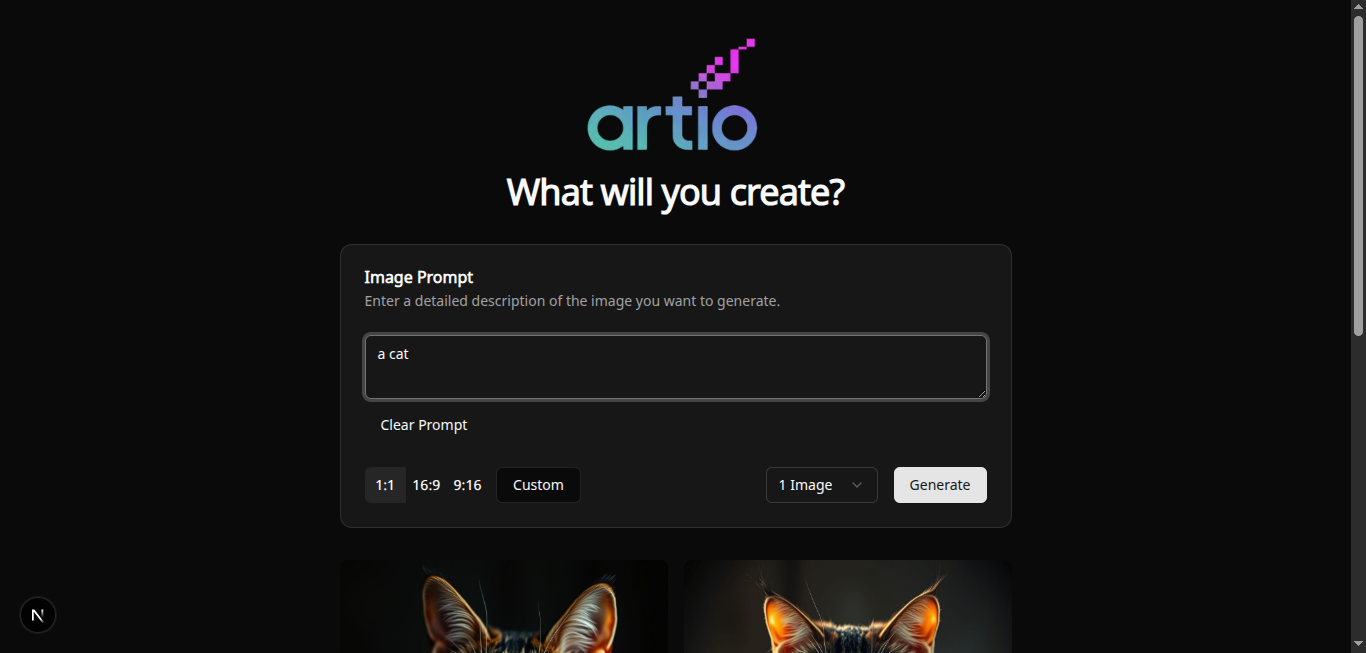
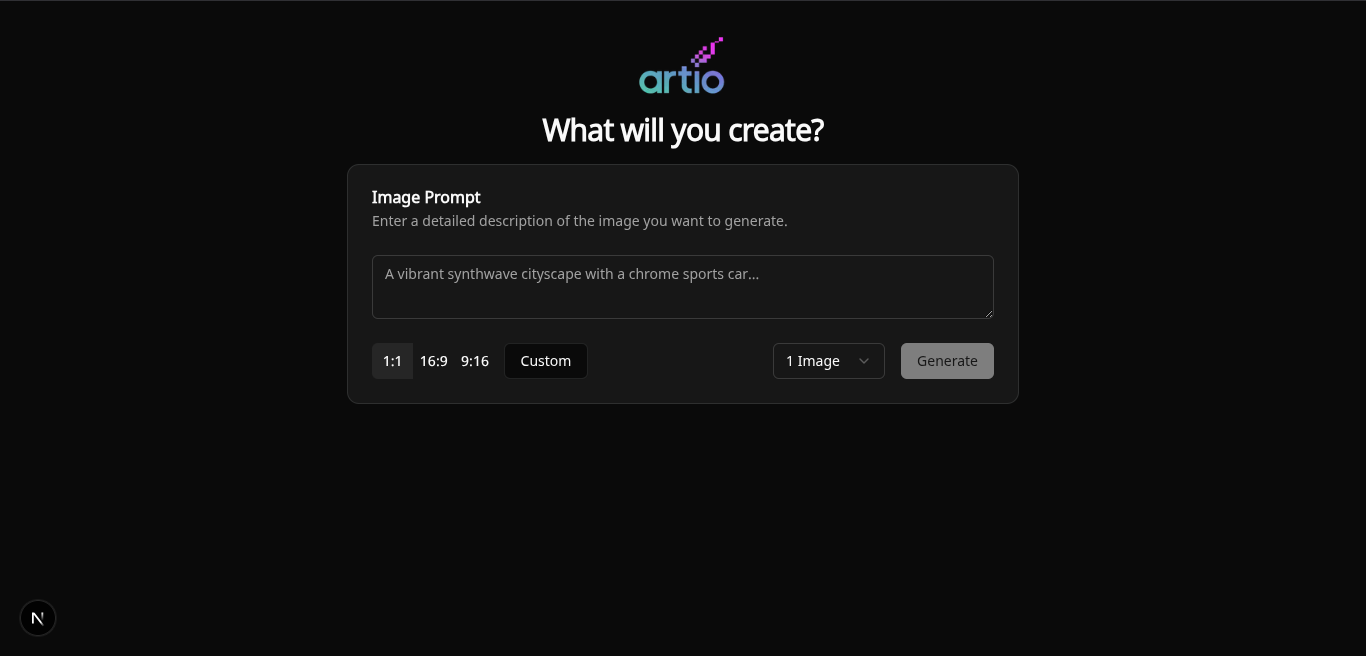
new style dynamic

diff --git a/artio/src/app/page.tsx b/artio/src/app/page.tsx
@@ -141,7 +141,7 @@ const ImageGeneratorPage = () => {
   return (
     <div className="flex min-h-screen flex-col items-center">
       {/* Fixed Header for Prompt Input */}
-      <div className={`fixed top-0 z-50 w-full border-b bg-background/95 backdrop-blur supports-[backdrop-filter]:bg-background/60 transition-all duration-300 ease-in-out ${scrolled ? 'py-2' : 'py-4 sm:py-8'}`}>
+      <div className={`fixed top-0 z-50 w-full  bg-background/95 backdrop-blur supports-[backdrop-filter]:bg-background/60 transition-all duration-300 ease-in-out ${scrolled ? 'py-2 border-b' : 'py-4 sm:py-8'}`}>
         <div className={`container mx-auto flex items-center gap-4 px-4 ${scrolled ? 'flex-row justify-between' : 'flex-col justify-center'}`}>
           <div className={`flex items-center gap-4 ${scrolled ? 'flex-row' : 'flex-col'}`}>
             <Image src={logo} alt="Logo" width={scrolled ? 60 : 100} height={scrolled ? 40 : 100} className="transition-all duration-300 ease-in-out" key="app-logo" />
